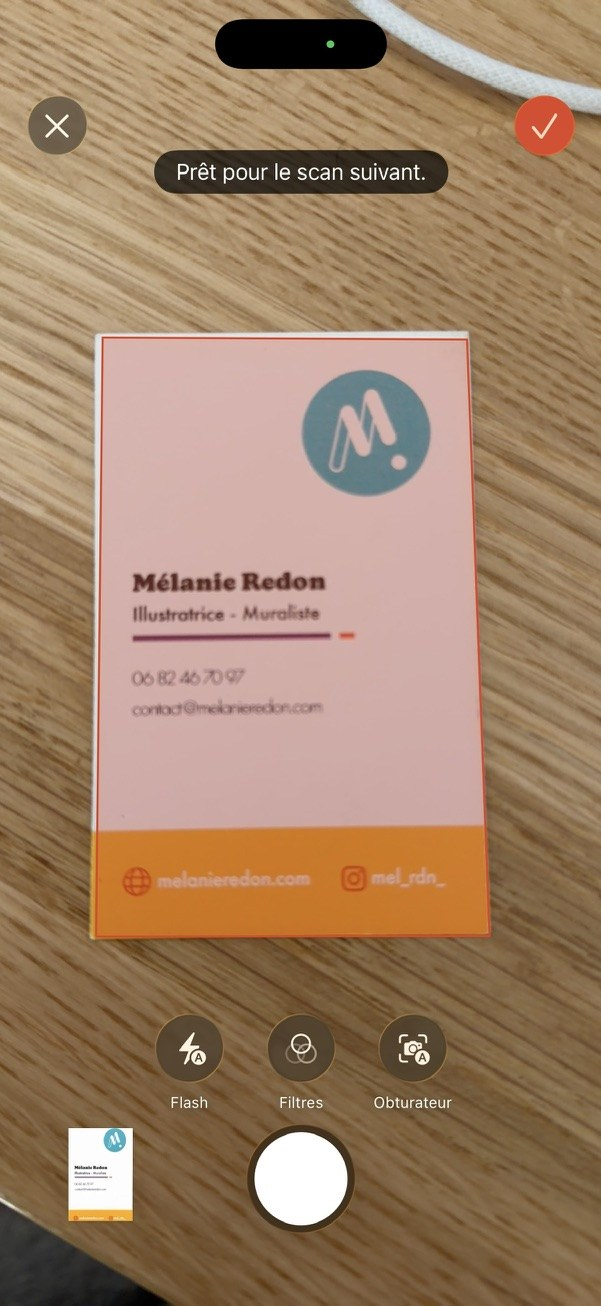
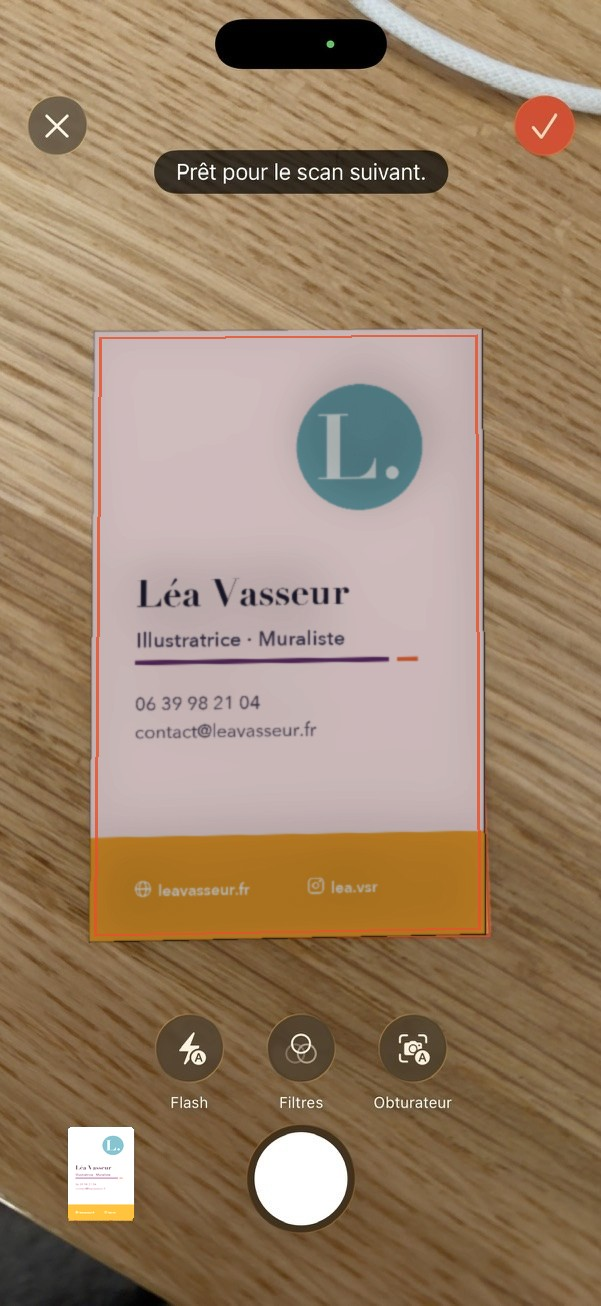
Remplacer toutes les captures par des personnes et des cartes fictives
Plus aucune donnée réelle sur la page : les captures montraient les
coordonnées de deux personnes, dont une adresse postale épinglée sur un plan.
Personnes, cartes, numéros, domaines et adresse sont désormais inventés ; les
numéros utilisent la plage 06 39 98 xx xx que l'ARCEP réserve à la fiction.

Trois cartes de visite ont été dessinées pour la page — une claire et colorée,
une noire à dorure, une illustrée avec adresse — puis mises en situation :

- les écrans d'interface (liste, fiches) sont redessinés avec SF Pro à partir
  des mesures des captures d'origine ;
- les écrans de scan gardent la photo réelle de la table, seule la carte est
  remplacée, projetée en perspective puis rééclairée d'après la luminance de
  la scène ; pour la carte noire, l'emplacement est rebouché avec du bois
  prélevé sur la marge droite de la photo ;
- les images de partage, découpées dans la maquette, sont refaites.

Au passage, les deux visuels de la section « Fond noir, dorure, texte fin. »
passent de 320 à 601 px : toutes les images sont maintenant au-delà de 1,8x
sur écran Retina, contre 1,45x pour ces deux-là. Vérifié sans débordement sur
9 largeurs x 2 langues, 94 liens valides, aucune image orpheline.

Changed region(s): [[0.1498, 0.245, 0.8087, 0.7351], [0.2097, 0.4288, 0.6889, 0.5819], [0.1198, 0.8576, 0.2396, 0.9495]]

diff --git a/fr/index.html b/fr/index.html
@@ -183,7 +183,7 @@
                   src="../assets/img/step-scan.jpg"
                   width="601"
                   height="939"
-                  alt="Écran de scan : une carte de visite blanche posée sur du bois, détourée par l’application."
+                  alt="Écran de scan : une carte de visite rose posée sur du bois, détourée par l’application."
                   loading="lazy"
                 />
               </figure>
@@ -199,7 +199,7 @@
               </p>
               <figure class="step-shot">
                 <img
-                  src="../assets/img/record-melanie.jpg"
+                  src="../assets/img/record-lea.jpg"
                   width="601"
                   height="974"
                   alt="Fiche d’un contact : la photo de la carte en haut, puis le nom, la fonction, le téléphone, l’e-mail et le site web."
@@ -245,16 +245,16 @@
             </p>
             <div class="panel-shots">
               <img
-                src="../assets/img/hard-scan.png"
-                width="320"
-                height="537"
+                src="../assets/img/hard-scan.jpg"
+                width="601"
+                height="1008"
                 alt="Scan d’une carte de visite noire à lettres dorées, posée sur une table en bois."
                 loading="lazy"
               />
               <img
-                src="../assets/img/hard-record.png"
-                width="332"
-                height="537"
+                src="../assets/img/hard-record.jpg"
+                width="601"
+                height="974"
                 alt="La fiche obtenue : nom, téléphone, e-mail et site web extraits de la carte dorée."
                 loading="lazy"
               />
@@ -269,7 +269,7 @@
             </p>
             <div class="panel-shots panel-shots--single">
               <img
-                src="../assets/img/record-melanie.jpg"
+                src="../assets/img/record-lea.jpg"
                 width="601"
                 height="974"
                 alt="Fiche complète avec la photo de la carte, les champs détectés et le lien « Texte reconnu »."

diff --git a/en/index.html b/en/index.html
@@ -183,7 +183,7 @@
                   src="../assets/img/step-scan.jpg"
                   width="601"
                   height="939"
-                  alt="The scanning screen: a white business card on a wooden table, outlined by the app."
+                  alt="The scanning screen: a pink business card on a wooden table, outlined by the app."
                   loading="lazy"
                 />
               </figure>
@@ -198,7 +198,7 @@
               </p>
               <figure class="step-shot">
                 <img
-                  src="../assets/img/record-melanie.jpg"
+                  src="../assets/img/record-lea.jpg"
                   width="601"
                   height="974"
                   alt="A contact record: the photo of the card at the top, then the name, job title, phone, email and website."
@@ -241,16 +241,16 @@
             </p>
             <div class="panel-shots">
               <img
-                src="../assets/img/hard-scan.png"
-                width="320"
-                height="537"
+                src="../assets/img/hard-scan.jpg"
+                width="601"
+                height="1008"
                 alt="Scanning a black business card with gold lettering, lying on a wooden table."
                 loading="lazy"
               />
               <img
-                src="../assets/img/hard-record.png"
-                width="332"
-                height="537"
+                src="../assets/img/hard-record.jpg"
+                width="601"
+                height="974"
                 alt="The resulting record: name, phone, email and website pulled out of the gold-foil card."
                 loading="lazy"
               />
@@ -265,7 +265,7 @@
             </p>
             <div class="panel-shots panel-shots--single">
               <img
-                src="../assets/img/record-melanie.jpg"
+                src="../assets/img/record-lea.jpg"
                 width="601"
                 height="974"
                 alt="A full record with the photo of the card, the detected fields and the “Recognised text” link."

diff --git a/README.md b/README.md
@@ -70,19 +70,24 @@ redirige vers le store du visiteur.
 
 ## Les visuels
 
-Les captures d'écran viennent de l'iPhone, en pleine définition (601 px de large),
-et sont affichées entre 250 et 324 px : elles restent nettes sur écran Retina.
-Le châssis d'iPhone autour du héro et de la fiche avec plan est **dessiné en CSS**
-(`.device`) plutôt que figé dans l'image, pour que tous les pixels servent à l'écran.
+Toutes les captures sont en 601 px de large et affichées entre 215 et 324 px :
+elles restent nettes sur écran Retina. Le châssis d'iPhone autour du héro et de
+la fiche avec plan est **dessiné en CSS** (`.device`) plutôt que figé dans
+l'image, pour que tous les pixels servent à l'écran.
 
-Deux captures manquent encore et restent en basse définition, extraites de la
-maquette : `hard-scan.png` et `hard-record.png`, la carte noire à dorure de la
-section « Fond noir, dorure, texte fin. ». À remplacer par des captures iPhone
-au même format que les autres.
+**Aucune donnée réelle.** Les personnes, les cartes, les numéros, les domaines
+et l'adresse sont inventés. Les numéros utilisent la plage `06 39 98 xx xx` que
+l'ARCEP réserve à la fiction.
 
-Les fiches affichent les coordonnées réelles des personnes dont les cartes ont
-servi aux essais, désormais lisibles. À remplacer par des cartes fictives avant
-toute campagne, ou à flouter.
+Les écrans d'interface (liste, fiches) sont redessinés à partir des mesures des
+captures d'origine, avec SF Pro. Les deux écrans de scan gardent la photo réelle
+de la table — bois, lumière, interface iOS — et seule la carte y est remplacée,
+projetée en perspective puis rééclairée d'après la luminance de la scène. Pour
+la carte noire, l'emplacement est d'abord rebouché avec du bois prélevé sur la
+marge droite de la photo.
+
+Les scripts qui les produisent ne sont pas versionnés : ils ont servi une fois.
+Pour refaire une image, repartir d'une capture d'iPhone en pleine définition.
 
 ## Points à relire
 
@@ -94,5 +99,6 @@ toute campagne, ou à flouter.
 
 ## Crédits
 
-Icône issue du projet iOS, captures d'écran prises sur iPhone. Typographies
+Icône issue du projet iOS. Captures d'écran reconstruites avec des personnes
+et des cartes fictives. Typographies
 [Inter et Inter Tight](https://rsms.me/inter/), servies par Google Fonts.
